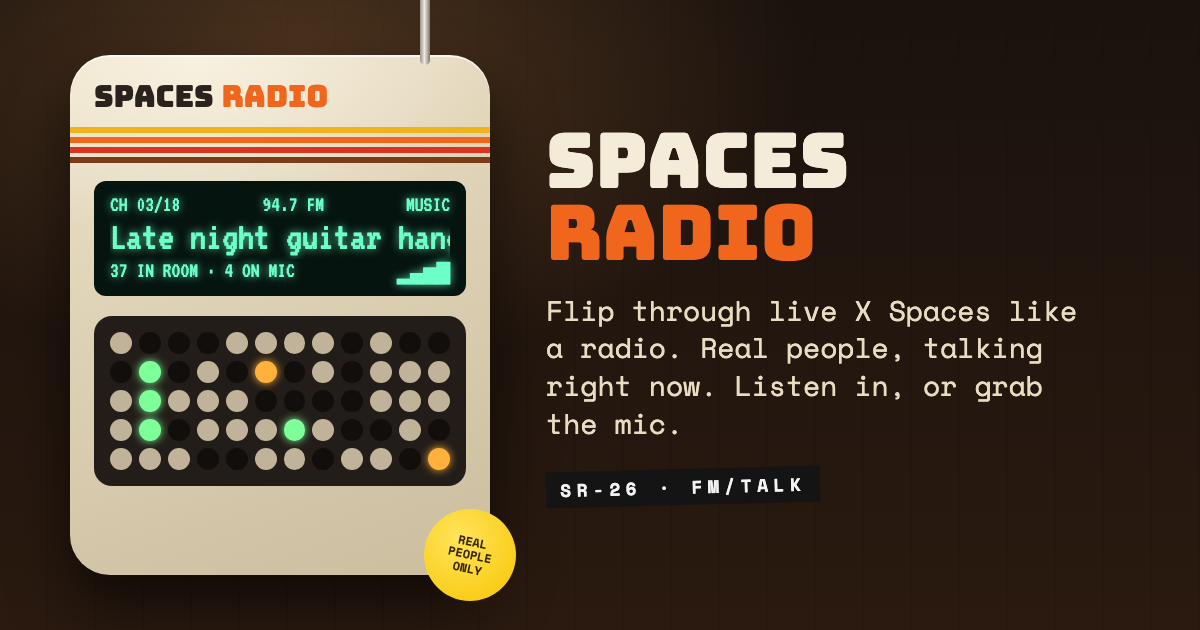
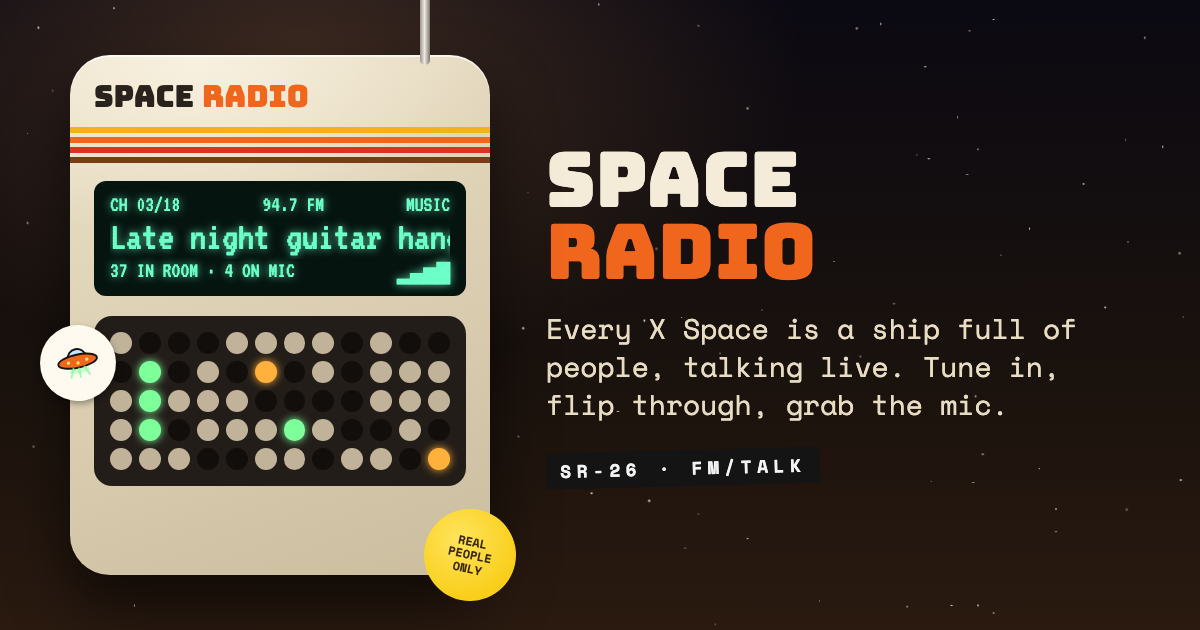
feat: rename to Space Radio; ship theme
The internet is space, your phone is your ship, every X Space is another
ship full of people talking live. Starfield out the window, a UFO
sticker, a Flight manual with 'Why Space', new share card, and STORY's
'Why Space Radio' (live has no delay; everything else is old light).
New home: space-radio-fm.vercel.app, github.com/DrealR/space-radio.

diff --git a/public/app.css b/public/app.css
@@ -1,5 +1,6 @@
-/* Spaces Radio SR-26 — a 1970s handheld that learned to talk. */
+/* Space Radio SR-26 — a 1970s handheld that learned to talk, riding in your ship. */
 :root {
+  --sky: #0b0912;
   --wall: #1a120d;
   --wall-2: #2a1a10;
   --lamp: rgba(255, 170, 90, .16);
@@ -27,8 +28,9 @@
 }
 @media (prefers-color-scheme: light) {
   :root:not([data-theme="dark"]) {
-    --wall: #d9c7a6; --wall-2: #c9b18a; --lamp: rgba(255, 244, 220, .6);
+    --sky: #c9d3e6; --wall: #d9c7a6; --wall-2: #c9b18a; --lamp: rgba(255, 244, 220, .6);
   }
+  :root:not([data-theme="dark"]) body::before, :root:not([data-theme="dark"]) body::after { display: none; }
 }
 
 * { box-sizing: border-box; }
@@ -38,10 +40,106 @@ body {
   margin: 0; min-height: 100vh; color: var(--paper-ink); font: 15px/1.55 var(--mono);
   background:
     radial-gradient(ellipse 60% 45% at 30% 8%, var(--lamp), transparent 70%),
-    repeating-linear-gradient(90deg, transparent 0 46px, rgba(0,0,0,.07) 46px 48px),
-    linear-gradient(var(--wall), var(--wall-2));
+    radial-gradient(ellipse 80% 50% at 80% 0%, rgba(90, 110, 200, .12), transparent 70%),
+    linear-gradient(var(--sky), var(--wall) 55%, var(--wall-2));
   background-attachment: fixed;
 }
+/* Out the ship's window: a fixed sky, and a few stars that breathe. */
+body::before, body::after { content: ""; position: fixed; inset: 0; pointer-events: none; z-index: -1; }
+body::before {
+  background:
+    radial-gradient(1px 1px at 74.7% 20.3%, rgba(255,246,225,0.5), transparent),
+    radial-gradient(1.8px 1.8px at 60.1% 5.7%, rgba(255,246,225,0.35), transparent),
+    radial-gradient(1px 1px at 73.0% 62.3%, rgba(255,246,225,0.7), transparent),
+    radial-gradient(1.8px 1.8px at 43.0% 24.2%, rgba(255,246,225,0.7), transparent),
+    radial-gradient(1px 1px at 84.4% 78.6%, rgba(255,246,225,0.7), transparent),
+    radial-gradient(1px 1px at 93.8% 22.2%, rgba(255,246,225,0.35), transparent),
+    radial-gradient(1.8px 1.8px at 59.7% 83.9%, rgba(255,246,225,0.5), transparent),
+    radial-gradient(1px 1px at 24.4% 58.4%, rgba(255,246,225,0.7), transparent),
+    radial-gradient(1px 1px at 29.3% 54.4%, rgba(255,246,225,0.7), transparent),
+    radial-gradient(1.4px 1.4px at 4.4% 0.8%, rgba(255,246,225,0.5), transparent),
+    radial-gradient(1px 1px at 85.1% 42.3%, rgba(255,246,225,0.35), transparent),
+    radial-gradient(1.8px 1.8px at 88.1% 25.1%, rgba(255,246,225,0.5), transparent),
+    radial-gradient(1px 1px at 60.7% 15.6%, rgba(255,246,225,0.35), transparent),
+    radial-gradient(1px 1px at 12.6% 54.9%, rgba(255,246,225,0.35), transparent),
+    radial-gradient(1px 1px at 40.7% 37.0%, rgba(255,246,225,0.7), transparent),
+    radial-gradient(1px 1px at 32.7% 40.7%, rgba(255,246,225,0.5), transparent),
+    radial-gradient(1px 1px at 70.6% 58.2%, rgba(255,246,225,0.5), transparent),
+    radial-gradient(1px 1px at 9.6% 24.0%, rgba(255,246,225,0.35), transparent),
+    radial-gradient(1.8px 1.8px at 67.9% 27.6%, rgba(255,246,225,0.5), transparent),
+    radial-gradient(1px 1px at 52.1% 60.3%, rgba(255,246,225,0.35), transparent),
+    radial-gradient(1px 1px at 15.2% 0.8%, rgba(255,246,225,0.7), transparent),
+    radial-gradient(1px 1px at 94.5% 68.8%, rgba(255,246,225,0.7), transparent),
+    radial-gradient(1px 1px at 18.3% 61.1%, rgba(255,246,225,0.5), transparent),
+    radial-gradient(1px 1px at 4.9% 97.3%, rgba(255,246,225,0.35), transparent),
+    radial-gradient(1px 1px at 29.2% 89.9%, rgba(255,246,225,0.7), transparent),
+    radial-gradient(1.8px 1.8px at 86.8% 88.0%, rgba(255,246,225,0.7), transparent),
+    radial-gradient(1.8px 1.8px at 2.3% 94.0%, rgba(255,246,225,0.5), transparent),
+    radial-gradient(1.8px 1.8px at 64.9% 54.7%, rgba(255,246,225,0.35), transparent),
+    radial-gradient(1.8px 1.8px at 10.1% 96.6%, rgba(255,246,225,0.35), transparent),
+    radial-gradient(1.8px 1.8px at 30.6% 14.5%, rgba(255,246,225,0.5), transparent),
+    radial-gradient(1px 1px at 62.3% 31.6%, rgba(255,246,225,0.7), transparent),
+    radial-gradient(1px 1px at 92.0% 6.6%, rgba(255,246,225,0.7), transparent),
+    radial-gradient(1px 1px at 4.4% 14.4%, rgba(255,246,225,0.5), transparent),
+    radial-gradient(1.8px 1.8px at 6.7% 28.1%, rgba(255,246,225,0.5), transparent),
+    radial-gradient(1px 1px at 21.8% 49.9%, rgba(255,246,225,0.7), transparent),
+    radial-gradient(1px 1px at 91.4% 71.5%, rgba(255,246,225,0.35), transparent),
+    radial-gradient(1px 1px at 21.3% 75.8%, rgba(255,246,225,0.7), transparent),
+    radial-gradient(1px 1px at 73.4% 3.8%, rgba(255,246,225,0.35), transparent),
+    radial-gradient(1px 1px at 94.0% 98.5%, rgba(255,246,225,0.5), transparent),
+    radial-gradient(1px 1px at 48.5% 11.6%, rgba(255,246,225,0.5), transparent),
+    radial-gradient(1px 1px at 16.8% 5.9%, rgba(255,246,225,0.5), transparent),
+    radial-gradient(1.8px 1.8px at 26.1% 19.5%, rgba(255,246,225,0.7), transparent),
+    radial-gradient(1.4px 1.4px at 72.1% 32.4%, rgba(255,246,225,0.5), transparent),
+    radial-gradient(1.8px 1.8px at 90.3% 29.2%, rgba(255,246,225,0.35), transparent),
+    radial-gradient(1px 1px at 83.4% 40.5%, rgba(255,246,225,0.35), transparent),
+    radial-gradient(1px 1px at 99.8% 79.8%, rgba(255,246,225,0.7), transparent),
+    radial-gradient(1.4px 1.4px at 29.7% 97.5%, rgba(255,246,225,0.7), transparent),
+    radial-gradient(1px 1px at 71.4% 69.4%, rgba(255,246,225,0.7), transparent),
+    radial-gradient(1.8px 1.8px at 70.9% 76.3%, rgba(255,246,225,0.5), transparent),
+    radial-gradient(1px 1px at 9.5% 1.3%, rgba(255,246,225,0.35), transparent),
+    radial-gradient(1px 1px at 86.6% 74.4%, rgba(255,246,225,0.35), transparent),
+    radial-gradient(1px 1px at 37.9% 64.1%, rgba(255,246,225,0.7), transparent),
+    radial-gradient(1.8px 1.8px at 69.2% 11.8%, rgba(255,246,225,0.5), transparent),
+    radial-gradient(1px 1px at 94.6% 64.4%, rgba(255,246,225,0.5), transparent),
+    radial-gradient(1px 1px at 25.2% 59.8%, rgba(255,246,225,0.7), transparent),
+    radial-gradient(1.4px 1.4px at 81.1% 65.0%, rgba(255,246,225,0.5), transparent),
+    radial-gradient(1px 1px at 22.2% 14.2%, rgba(255,246,225,0.5), transparent),
+    radial-gradient(1.4px 1.4px at 76.4% 22.0%, rgba(255,246,225,0.35), transparent),
+    radial-gradient(1.8px 1.8px at 82.8% 97.3%, rgba(255,246,225,0.35), transparent),
+    radial-gradient(1.8px 1.8px at 44.7% 29.8%, rgba(255,246,225,0.7), transparent),
+    radial-gradient(1px 1px at 44.2% 20.6%, rgba(255,246,225,0.5), transparent),
+    radial-gradient(1px 1px at 7.7% 23.3%, rgba(255,246,225,0.35), transparent),
+    radial-gradient(1px 1px at 10.6% 77.8%, rgba(255,246,225,0.7), transparent),
+    radial-gradient(1.4px 1.4px at 46.0% 11.9%, rgba(255,246,225,0.7), transparent),
+    radial-gradient(1.8px 1.8px at 41.3% 88.9%, rgba(255,246,225,0.7), transparent),
+    radial-gradient(1px 1px at 19.7% 21.7%, rgba(255,246,225,0.7), transparent),
+    radial-gradient(1.8px 1.8px at 62.5% 92.2%, rgba(255,246,225,0.5), transparent),
+    radial-gradient(1.8px 1.8px at 48.8% 95.1%, rgba(255,246,225,0.7), transparent),
+    radial-gradient(1.4px 1.4px at 50.3% 3.3%, rgba(255,246,225,0.35), transparent),
+    radial-gradient(1.4px 1.4px at 62.3% 85.5%, rgba(255,246,225,0.7), transparent);
+}
+body::after {
+  background:
+    radial-gradient(2.4px 2.4px at 89.3% 50.8%, rgba(255,246,225,0.9), transparent),
+    radial-gradient(2.4px 2.4px at 67.4% 98.4%, rgba(255,246,225,0.9), transparent),
+    radial-gradient(2px 2px at 74.3% 1.1%, rgba(255,246,225,0.9), transparent),
+    radial-gradient(2px 2px at 98.5% 24.1%, rgba(255,246,225,0.9), transparent),
+    radial-gradient(2.4px 2.4px at 92.4% 58.6%, rgba(255,246,225,0.9), transparent),
+    radial-gradient(2px 2px at 55.6% 75.3%, rgba(255,246,225,0.9), transparent),
+    radial-gradient(2.4px 2.4px at 52.0% 89.4%, rgba(255,246,225,0.9), transparent),
+    radial-gradient(2px 2px at 16.0% 14.3%, rgba(255,246,225,0.9), transparent),
+    radial-gradient(2.4px 2.4px at 39.3% 5.3%, rgba(255,246,225,0.9), transparent),
+    radial-gradient(2.4px 2.4px at 59.2% 49.3%, rgba(255,246,225,0.9), transparent),
+    radial-gradient(2px 2px at 5.7% 27.4%, rgba(255,246,225,0.9), transparent),
+    radial-gradient(2px 2px at 78.6% 37.1%, rgba(255,246,225,0.9), transparent),
+    radial-gradient(2px 2px at 53.7% 62.1%, rgba(255,246,225,0.9), transparent),
+    radial-gradient(2.4px 2.4px at 35.5% 78.5%, rgba(255,246,225,0.9), transparent),
+    radial-gradient(2.4px 2.4px at 48.4% 28.9%, rgba(255,246,225,0.9), transparent),
+    radial-gradient(2.4px 2.4px at 41.4% 94.0%, rgba(255,246,225,0.9), transparent);
+  animation: twinkle 5s ease-in-out infinite alternate;
+}
+@keyframes twinkle { from { opacity: .25; } to { opacity: 1; } }
 button, input, select { font: inherit; }
 a { color: inherit; }
 
@@ -254,6 +352,11 @@ a { color: inherit; }
 .smile { right: -18px; bottom: -40px; width: 70px; height: 70px; border-radius: 50%; transform: rotate(12deg);
   background: radial-gradient(circle at 35% 30%, #ffe45c, #f7c600); box-shadow: 0 3px 6px rgba(0,0,0,.3);
   display: grid; place-items: center; text-align: center; font: 700 9px/1.1 var(--mono); color: #3b2a00; }
+.ufo { left: -26px; top: 47%; width: 62px; height: 62px; border-radius: 50%; transform: rotate(-12deg);
+  background: #fffaf0; box-shadow: 0 3px 6px rgba(0,0,0,.35); display: grid; place-items: center; }
+.ufo svg { width: 52px; height: 52px; }
+.radio.live .ufo svg { animation: hover 2.4s ease-in-out infinite; }
+@keyframes hover { 50% { transform: translateY(-3px) rotate(3deg); } }
 .tape { left: 6px; top: -7px; transform: rotate(-6deg); padding: 3px 10px; background: #1f5fae;
   color: #fff; font: 700 11px var(--mono); letter-spacing: .25em; box-shadow: 0 2px 3px rgba(0,0,0,.35); }
 
@@ -315,6 +418,8 @@ a { color: inherit; }
   .knob { width: 88px; height: 88px; }
   .lcd-title { font-size: 30px; }
   .smile { right: -6px; bottom: -36px; width: 56px; height: 56px; font-size: 8px; }
+  .ufo { left: -10px; width: 50px; height: 50px; }
+  .ufo svg { width: 42px; height: 42px; }
 }
 @media (prefers-reduced-motion: reduce) {
   *, *::before, *::after { animation: none !important; transition: none !important; }

diff --git a/public/index.html b/public/index.html
@@ -3,19 +3,19 @@
 <head>
   <meta charset="utf-8">
   <meta name="viewport" content="width=device-width, initial-scale=1, viewport-fit=cover">
-  <title>Spaces Radio</title>
-  <meta name="description" content="A walkie-talkie radio for live X Spaces. Flip through rooms of real people talking right now; listen in or grab the mic.">
-  <meta property="og:title" content="Spaces Radio SR-26">
-  <meta property="og:description" content="Flip through live X Spaces like a radio. Real people, talking right now.">
+  <title>Space Radio</title>
+  <meta name="description" content="A walkie-talkie radio for live X Spaces. Every Space is a ship full of people talking right now: flip through them, listen in, or grab the mic.">
+  <meta property="og:title" content="Space Radio SR-26">
+  <meta property="og:description" content="Every X Space is a ship full of people, talking live. Tune in, flip through, grab the mic.">
   <meta property="og:type" content="website">
-  <meta property="og:url" content="https://spaces-radio.vercel.app/">
-  <meta property="og:image" content="https://spaces-radio.vercel.app/og.png">
+  <meta property="og:url" content="https://space-radio-fm.vercel.app/">
+  <meta property="og:image" content="https://space-radio-fm.vercel.app/og.png">
   <meta property="og:image:width" content="1200">
   <meta property="og:image:height" content="630">
   <meta name="twitter:card" content="summary_large_image">
   <meta name="theme-color" content="#1a120d">
   <meta name="apple-mobile-web-app-capable" content="yes">
-  <meta name="apple-mobile-web-app-title" content="Spaces Radio">
+  <meta name="apple-mobile-web-app-title" content="Space Radio">
   <meta name="apple-mobile-web-app-status-bar-style" content="black-translucent">
   <link rel="icon" href="icon.svg" type="image/svg+xml">
   <link rel="apple-touch-icon" href="apple-touch-icon.png">
@@ -32,7 +32,7 @@
 
       <div class="shell">
         <header class="head">
-          <div class="logo">SPACES<b>RADIO</b></div>
+          <div class="logo">SPACE<b>RADIO</b></div>
           <div class="model">SR-26 · FM/TALK</div>
           <div class="lamps">
             <span id="lamp-rx" class="lamp rx" title="Receiving">RX</span>
@@ -111,12 +111,15 @@
         <div id="presets" class="presets"></div>
 
         <div class="sticker smile" aria-hidden="true"><span>REAL<br>PEOPLE<br>ONLY</span></div>
+        <div class="sticker ufo" aria-hidden="true">
+          <svg viewBox="0 0 64 64"><ellipse cx="32" cy="40" rx="11" ry="3" fill="#7dff9a" opacity=".45"/><path d="M22 27a10 10 0 0 1 20 0" fill="#bfe9ff" stroke="#1a120d" stroke-width="2"/><ellipse cx="32" cy="30" rx="21" ry="7" fill="#f0661c" stroke="#1a120d" stroke-width="2"/><circle cx="22" cy="30" r="1.8" fill="#ffe45c"/><circle cx="32" cy="32" r="1.8" fill="#ffe45c"/><circle cx="42" cy="30" r="1.8" fill="#ffe45c"/><path d="M26 37l-4 9M32 38v9M38 37l4 9" stroke="#7dff9a" stroke-width="2" stroke-linecap="round" opacity=".8"/></svg>
+        </div>
       </div>
     </div>
 
     <aside class="manual">
-      <h1>Owner's manual</h1>
-      <p class="lede">A walkie-talkie radio for live X Spaces. Every channel is a room of real people talking right now. Flip through them the way you'd flip through a feed.</p>
+      <h1>Flight manual</h1>
+      <p class="lede">A walkie-talkie radio for your ship. Every channel is an X Space, another ship full of real people talking right now. Flip through them the way you'd flip through a feed.</p>
 
       <ol class="steps">
         <li><b>BAND</b> picks what it's about. Rooms on the glass are live, and taller ones are busier.</li>
@@ -147,6 +150,10 @@
         <li><b>Lurk:</b> X has anonymous listening if you'd rather not be seen in the room.</li>
         <li>Every room plays inside X, so hosts keep their controls. They pick speakers and can mute, remove or block anyone.</li>
       </ul>
+
+      <h2>Why "Space"</h2>
+      <p>The internet is space. Your phone is your ship. Every X Space is another ship, a crowd of people floating together and talking.</p>
+      <p>Most of what you find out there is old light: posts and videos that left their source hours or years ago. A Space has no delay, which is why it feels like being around people. This radio picks up their signals.</p>
 
       <h2>Why this exists</h2>
       <p>Built in the fall of 2026 by someone who spent the warm months playing guitar in the park, around people. Then winter came and work went remote. Scrolling posts isn't the same as hearing real voices.</p>

diff --git a/public/app.js b/public/app.js
@@ -1,4 +1,4 @@
-// Spaces Radio SR-26. State is replaced, never edited in place; render() draws it.
+// Space Radio SR-26. State is replaced, never edited in place; render() draws it.
 import {
   GRILLE_DOTS, MAX_PRESETS, addPreset, ago, bandLabel, buildDeck, frequency, grillePlan,
   parseSpaceId, position, removePreset, signalBars,

diff --git a/spaces_radio/server.py b/spaces_radio/server.py
@@ -1,4 +1,4 @@
-"""Spaces Radio, local dev server. Same answers as the Vercel functions.
+"""Space Radio, local dev server. Same answers as the Vercel functions.
 
     python3 -m spaces_radio.server            # no key: people paste rooms they find
     python3 ~/Morrow/tools/mo_keys.py run --project spaces-radio -- python3 -m spaces_radio.server
@@ -53,7 +53,7 @@ def main() -> None:
     service = service_from_env()
     server = ThreadingHTTPServer(("127.0.0.1", PORT), make_handler(service))
     mode = "live search on" if service.live_search else "no X key: pasted rooms only"
-    print(f"Spaces Radio · http://127.0.0.1:{PORT} · {mode}")
+    print(f"Space Radio · http://127.0.0.1:{PORT} · {mode}")
     try:
         server.serve_forever()
     except KeyboardInterrupt:

diff --git a/tests/test_radio.py b/tests/test_radio.py
@@ -1,4 +1,4 @@
-"""Spaces Radio tests. No network: the X API is a fake that records its calls."""
+"""Space Radio tests. No network: the X API is a fake that records its calls."""
 import json
 import tempfile
 import threading
@@ -240,7 +240,7 @@ class ServerTests(TmpCase):
         self.assertEqual(headers["Cache-Control"], "no-store")
 
     def test_serves_page_and_modules_but_not_outside_public(self):
-        self.assertIn(b"SPACES", self.get("/")[2])
+        self.assertIn(b"<title>Space Radio</title>", self.get("/")[2])
         self.assertEqual(self.get("/js/rooms.js")[0], 200)
         self.assertEqual(self.get("/../spaces_radio/service.py")[0], 404)
         self.assertEqual(self.get("/%2e%2e/README.md")[0], 404)

diff --git a/STORY.md b/STORY.md
@@ -1,4 +1,4 @@
-# Why I built Spaces Radio
+# Why I built Space Radio
 
 ## The problem
 
@@ -34,6 +34,20 @@ walkie-talkie. The difference from a radio is that you're allowed to talk back.
 - **MIC** hands the room to your phone with a QR code, because on X the web can only listen and
   talking happens in the app.
 
+## Why "Space Radio"
+
+I think of the internet as space. Your phone is your ship: from it you can reach anywhere and anyone.
+An X Space is another ship, a group of people floating together and talking.
+
+Most of what you find out there is old light. A post or a video left its source hours or years ago,
+and anything you say back arrives late, the way signals take time to cross space. Livestreams come
+closer to real time, but they're one person with a crowd watching. A Space has no delay and it's a
+group, which is why it feels like being around people.
+
+Today the radio picks up X Spaces. The same radio could tune into other live rooms later:
+Clubhouse, Telegram voice chats, whatever comes next. And if your own AI system is the ship, this
+is the radio on its dashboard.
+
 ## How it works
 
 ```
@@ -51,7 +65,8 @@ browser (the radio) ──▶ /api/tune?station=music ──▶ X API: search li
 
 ## Use it or build your own
 
-- Live: https://spaces-radio.vercel.app
+- Live: https://space-radio-fm.vercel.app
+- Code: https://github.com/DrealR/space-radio
 - Your own copy: deploy this folder to Vercel, add your X API bearer token as `X_BEARER_TOKEN`,
   and set a spending limit in the X Developer Console. The README has details and tests.
 

diff --git a/README.md b/README.md
@@ -1,6 +1,8 @@
-# Spaces Radio SR-26
+# Space Radio SR-26
 
-A walkie-talkie radio for live X Spaces. Each channel is a room of real people talking right now.
+Live: https://space-radio-fm.vercel.app · Code: https://github.com/DrealR/space-radio
+
+A walkie-talkie radio for your ship. Each channel is a live X Space: another ship full of real people talking right now.
 Flip through rooms like a feed, listen while you work, and grab the mic if you want to.
 Built Sep 23, 2026 for winter nights, when the park is too cold. The why: [STORY.md](STORY.md).
 
